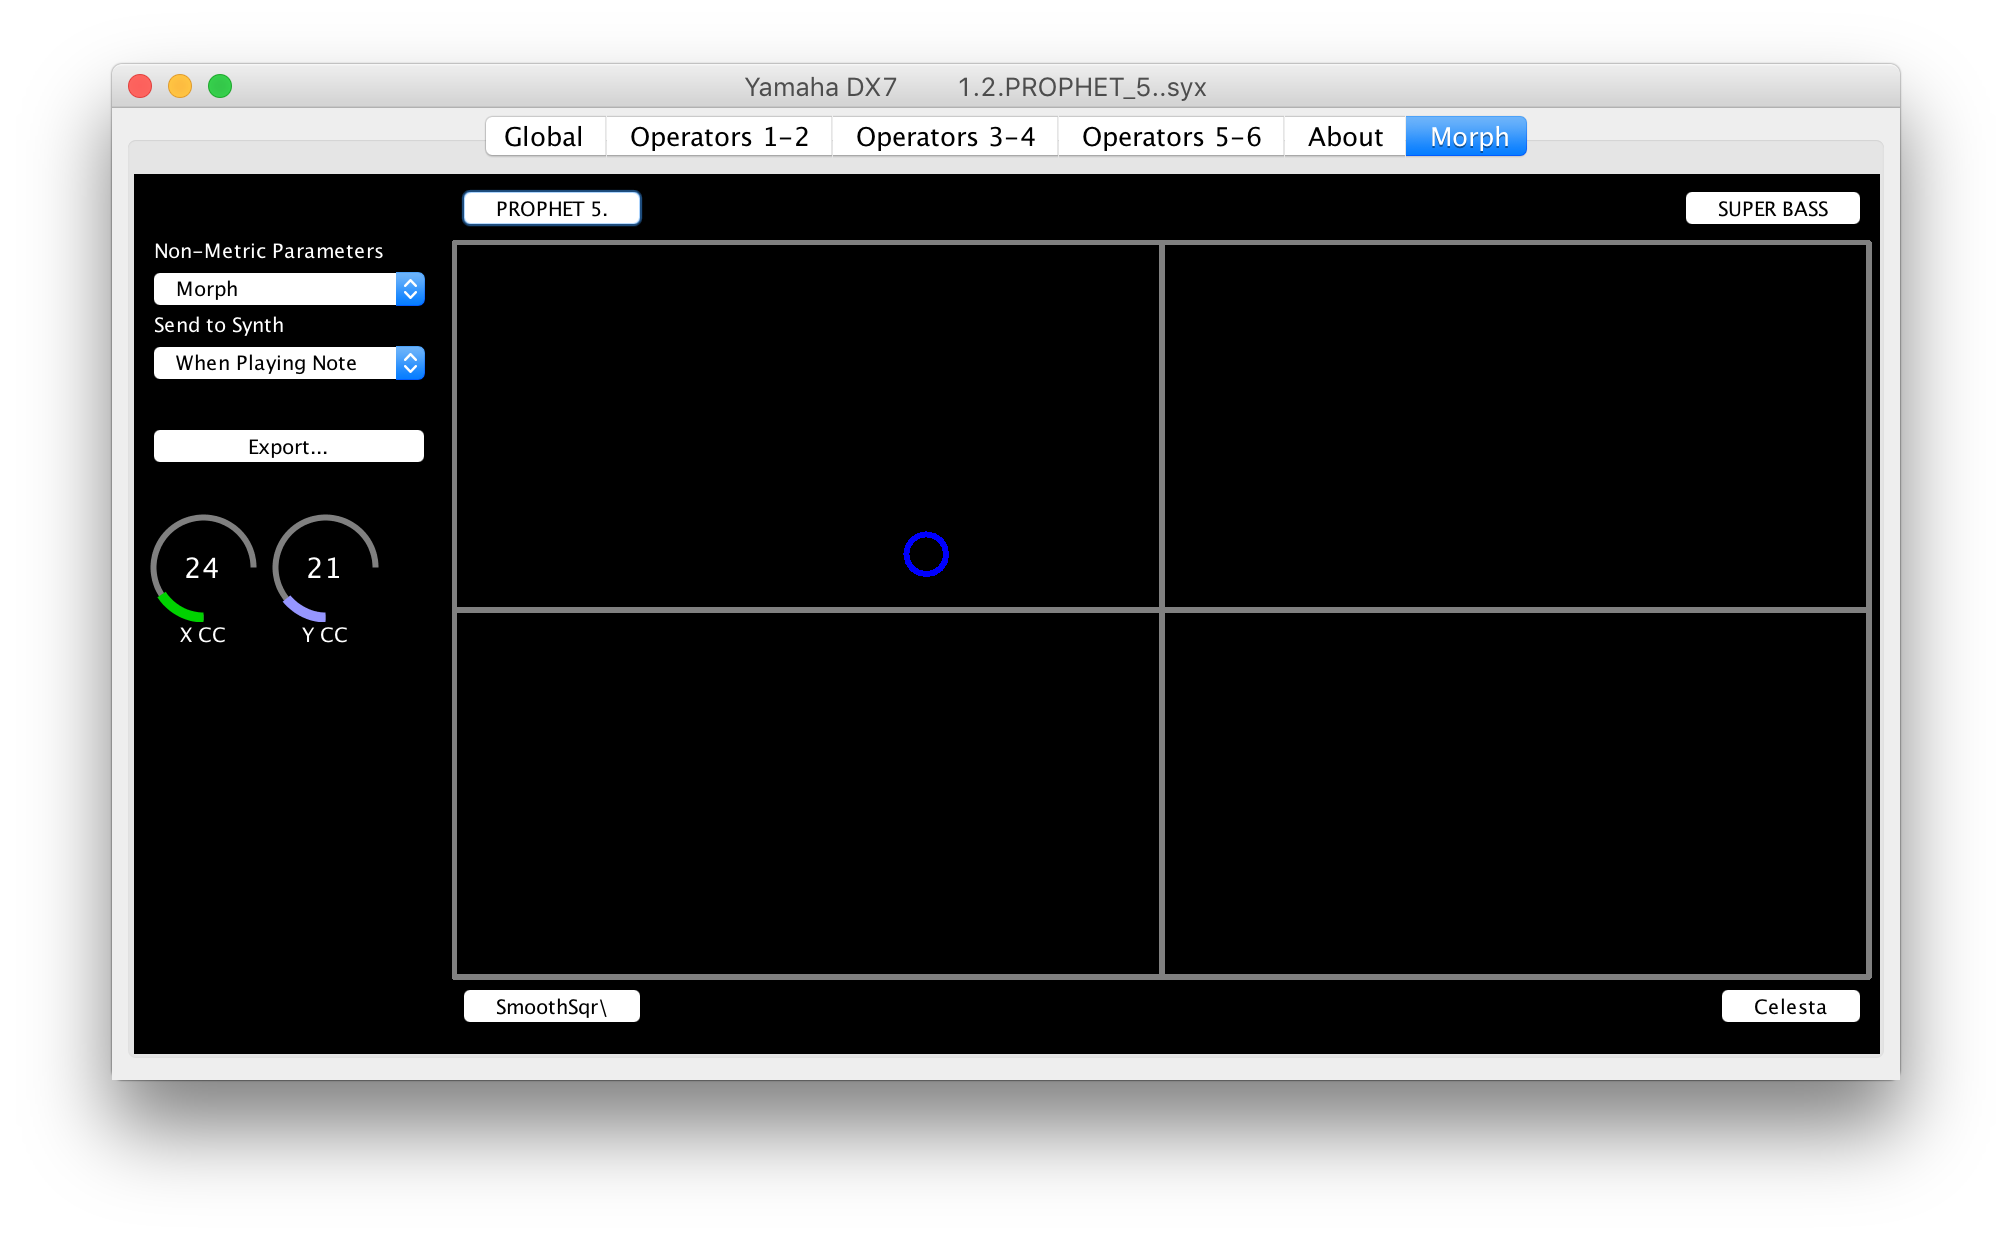
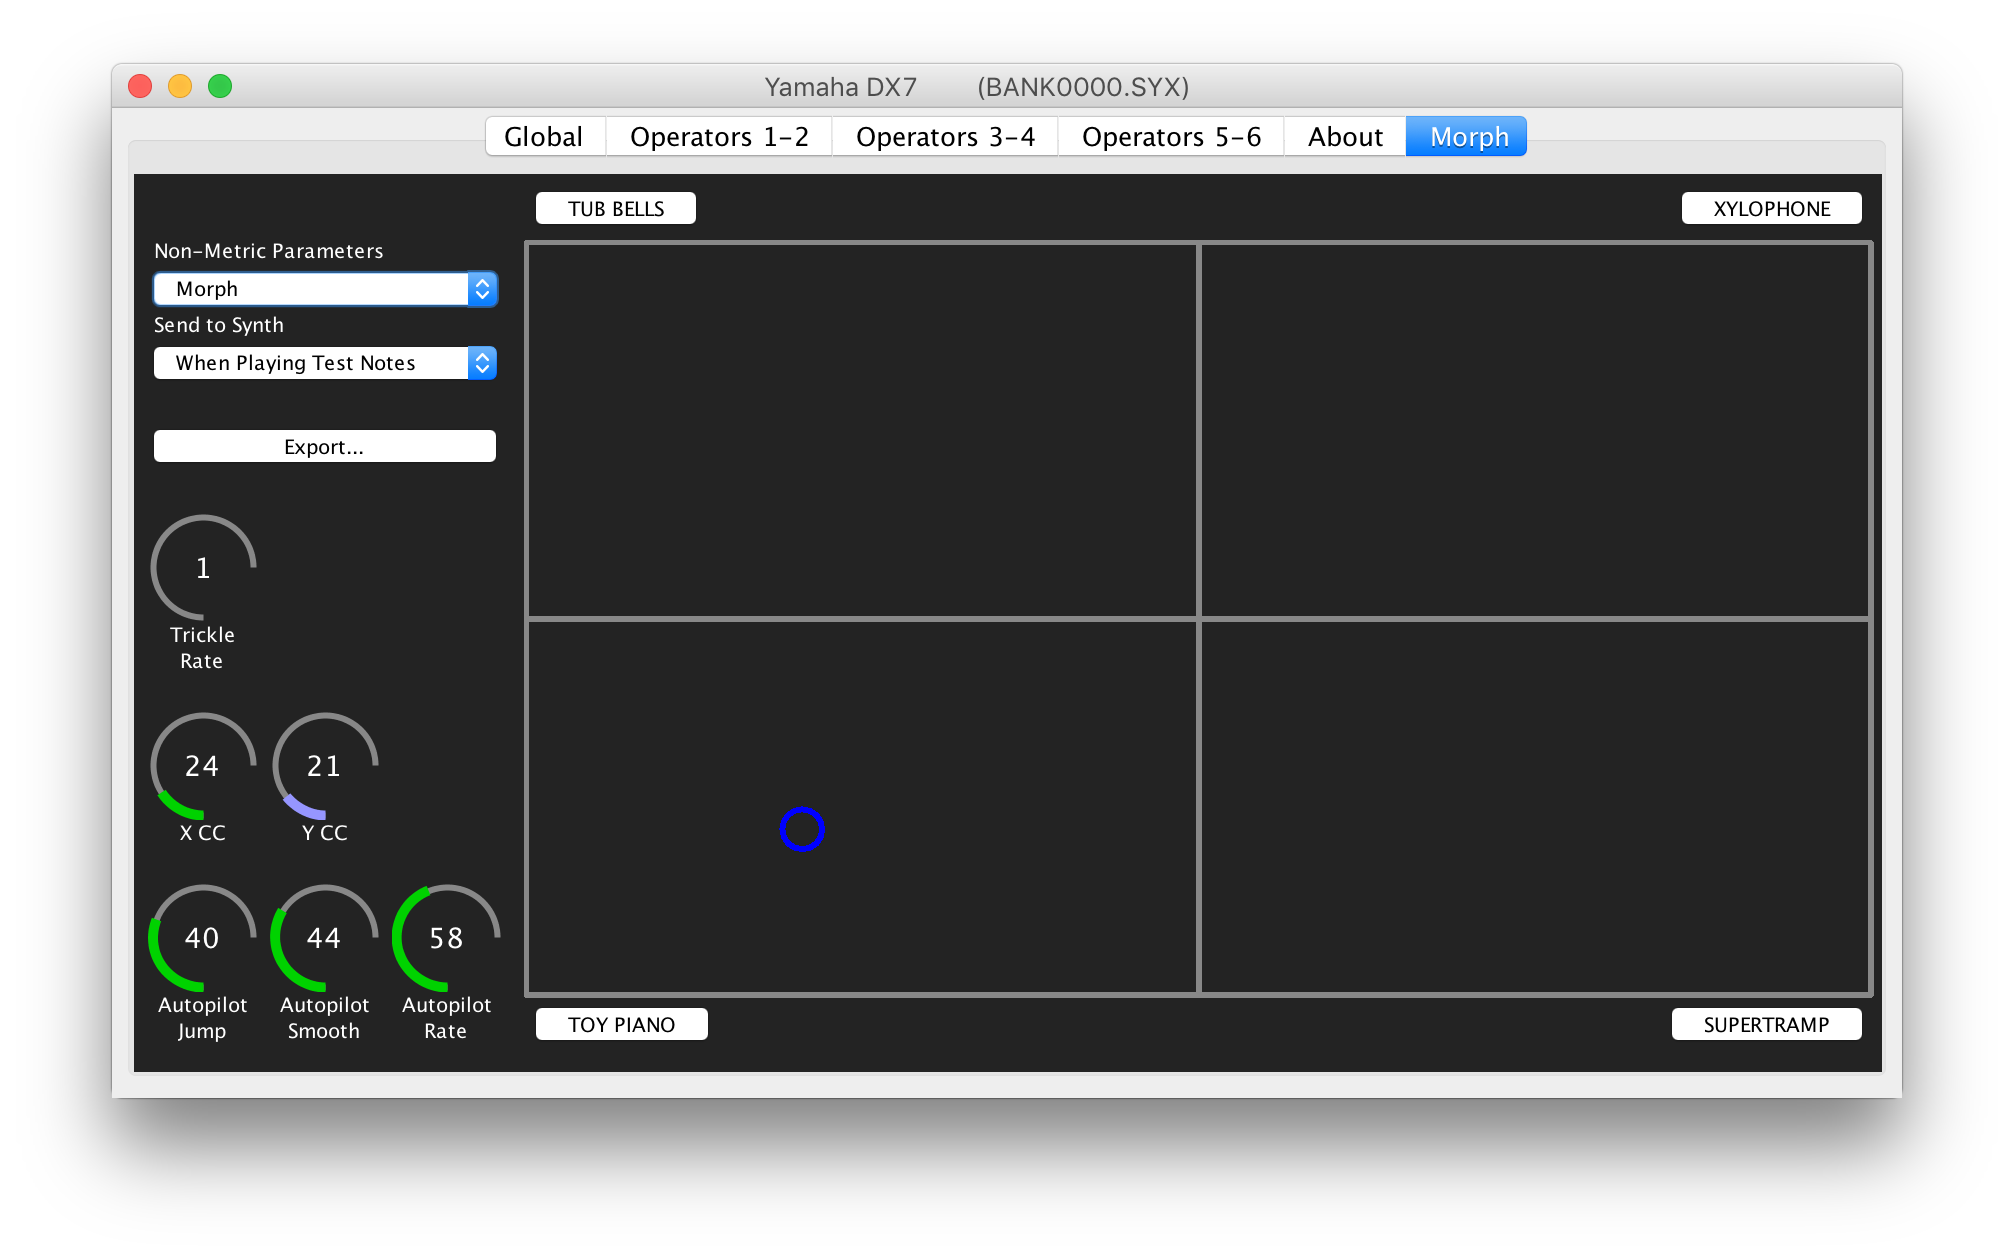
doc

diff --git a/docs/manual/Edisyn.tex b/docs/manual/Edisyn.tex
@@ -216,6 +216,9 @@ Now would be a good time to mention an Edisyn feature you may never notice other
 
 Persistence appears in other places too.  For example, the Initial Synthesizer dialog will default to the last synth you chose in that dialog.  Persistence shows up in many other places as well.
 
+\paragraph{Selecting Patch Editor Windows} When you bring a patch editor window to the front, Edisyn sends a bunch of All Sounds Off MIDI messages to clean things up for the editor.  However this may sometimes be undesirable: for example, if you are running a DAW and switch to Edisyn, it will turn off all your DAW's currently played notes.  To prevent this, just turn off {\bf Send All Sounds Off when Changing Windows}.
+
+
 \section{Loading and Saving Files}
 
 Edisyn is capable of reading both sysex files or MIDI files and extracting sysex patch data from them.  It can in some situations read files which contain many patches: but Edisyn only writes files with a single patch per file, and only in sysex file format.
@@ -258,7 +261,7 @@ Edisyn also has limited support for batch-downloading patches, one by one, and s
 If Edisyn can't download a particular patch (the synth isn't responding), it'll try again and again until successful.  So if it gets stuck, 
 you can always stop batch-downloading at any time by choosing {\bf Stop Downloading Batch} from the {\bf File} menu.  Note that you can still screw with knobs, etc. while Edisyn is busy downloading batches: but don't do that.  You're just messing up the batches getting saved.%\footnote{I may change this in the future to something less fragile.}
 
-Also note that as a failsafe Edisyn only allows the frontmost window to receive data over MIDI.  This means that while you're batch-downloading, you shouldn't switch to some other patch editor window: the downloading patch editor must stay in front.  You can go to another application though (read a web browser say).
+Also note that as a failsafe Edisyn only allows the frontmost window to receive data over MIDI.  Thus while you're batch-downloading, you shouldn't switch to some other patch editor window: the downloading patch editor must stay in front.  You can go to another application though (read a web browser say).
 
 \subsection{Exporting to Text}
 Perhaps you might wish to describe your patch on you blog or your favorite forum.  if you choose {\bf Export to Text...} from the {\bf File} menu, Edisyn will write out all of its patch parameters to a text file.   Edisyn may occasionally break out parameters more than your synthesizer does: though usually it's pretty close to a one-to-one mapping.  The parameter names can be cryptic sometimes: Edisyn often (not always) names parameters in a manner fairly similar to how they're specified by the synthesizer manufacturer in its MIDI Sysex document, and synth manufacturers are not known for being consistent in their naming between the sysex document and the user manual.
@@ -293,8 +296,6 @@ This might not increment in the way you expect.  Edisyn will increment its own d
 Some synthesizers cannot do one or another of these tasks.   When this happens, that feature will generally be disabled in the menu.  As always, read the About Tab to learn more about what's going on with that synthesizer model.  See Section \ref{inconsistent} for some information and griping about all this.
 
 A synthesizer can also offer its own sysex messages to Edisyn without Edisyn requesting them.  Edisyn will try to handle these appropriately.  Some synthesizers might send special {\it bank sysex} messages which contain an entire bank (or in some cases, an entire synthesizer's memory worth) of patches.  Only a few Edisyn patch editors know how to deal with these messages: notably the DX7 patch editor can handle these just fine.  In this case, you will be given three options, to upload the entire bank to the synthesizer (again), to save the entire bank to a file, or to select a single patch from the bank and edit it.
-
-\bump
 
 \subsection{Playing Test Notes}
 \label{playingtestnotes}
@@ -402,7 +403,6 @@ This procedure will create a bunch of of virtual devices with names like {\tt Vi
 \paragraph{Warning}  The ``loop'' in {\it loopback} is apropos.  If you fire up Edisyn and you're not careful, it may set up your loopback as both its input and output.  That would be unfortunate: Edisyn would send a patch out the loopback, which would then arrive at Edisyn's input, which would cause Edisyn to parse the same patch, which would in turn cause Edisyn to send the patch {\it again}, and so on.  So you want to make sure that Edisyn doesn't have the same loopback device as both input and output.  Obviously other devices (such as your MIDI/USB converter) can serve as both input and output.
 
 
-\vbox{
 \section{Editing and Exploratory Patch Creation}
 \label{editing}
 
@@ -413,7 +413,6 @@ Edisyn has a large number of facilities to help you program your synthesizer, in
 \paragraph{Undo and Redo}  Edisyn has infinite levels of undo and redo.  When you change a parameter or do a wholesale modification, this can be undone, as can patch dumps and merges from the synthesizer.  Individual parameter changes made manually on the synthesizer are not undoable even if they're reflected in Edisyn (it'd be too many).  Loading and saving patches is not undoable.  See the {\bf Edit} menu.
 
 \paragraph{Reset}  You can reset the patch editor to its ``init patch''.  Just choose {\bf Reset} in the {\bf Edit} menu.
-}
 
 \paragraph{Category Cut/Paste, Distribution, and Reset}  Each category has a pop-up menu you get when you right-click or shift-click (or two-finger click on a Mac trackpad) on the category name. You can:
 
@@ -469,11 +468,10 @@ You can restrict Mutation and Recombination (used in Randomize, Nudge, Merge, Bl
 
 You can change these of course: just click on them and you can remove them from being updated (or add them back).\footnote{Note that due to an error in Java's design, you can't click directly on a Combo Box (a pop-up menu) such as the ``Wave'' combo box in Figure \ref{mutationparameters}.  But you can click on its title (the text ``Wave'').}  You can also turn on (or turn off) all of the parameters in a category by double-clicking on the category title.  The categories in Figure \ref{mutationparameters} are {\it Yamaha TX81Z}, {\it Global}, {\it LFO}, and {\it Controllers}.  Finally, you can turn on all the parameters in the entire patch editor by selecting {\bf Set All Mutation Parameters} in the {\bf Edit} menu, or conversely turn them all of by selecting {\bf Clear All Mutation Parameters}.
 
-\bump
 
 \begin{wrapfigure}{r}{3in}
 \vspace{-1em}\includegraphics[scale=0.3]{5.png}
-\vspace{-3em}\caption{Editing Mutation Parameters}\label{mutationparameters}
+\vspace{-4em}\caption{Editing Mutation Parameters}\label{mutationparameters}
 \end{wrapfigure}
 
 Some parameters, such as the patch name or certain other parameters, can't be mutated no matter what: these have been declared {\it immutable} by the patch editor.  They will never have a red frame no matter how much you click them.
@@ -528,15 +526,16 @@ All the patches can be played by pressing their associated letter.  But addition
 \subsection{Constricting}
 \label{constrict}
 
+The {\it Constrictor} is similar to the Hill-Climber in many ways, yet its dynamics and behavior are quite different.   You choose the Constrictor in the same way as the Hill-Climber: by choosing {\bf Hill-Climb} in the {\bf Edit} menu.  But then in the Hill-Climb tab, change the ``Method'' combobox to {\it Constrictor}.    
+
 \begin{wrapfigure}{r}{3.6in}
-\vspace{-2.65em}\includegraphics[scale=0.27]{ConstrictorPanel.png}
+%\vspace{-2.65em}
+\vspace{-0.75em}\includegraphics[scale=0.27]{ConstrictorPanel.png}
 \vspace{-2.5em}
 \caption{The Hill-Climber Panel converted for Constricting.}
-\vspace{-1em}
+%\vspace{-1em}
 \label{constrictorpanel}
 \end{wrapfigure}
-
-The {\it Constrictor} is similar to the Hill-Climber in many ways, yet its dynamics and behavior are quite different.   You choose the Constrictor in the same way as the Hill-Climber: by choosing {\bf Hill-Climb} in the {\bf Edit} menu.  But then in the Hill-Climb tab, change the ``Method'' combobox to {\it Constrictor}.    
 
 The Constrictor auditions patches to you in exactly the same way was the Hill-Climber.  But you're not given the option of choosing your top three choices.  Instead, you're asked to choose which patches you {\it don't like}.  This is done by deselecting their checkboxes.  Afterwards, you click on the {\bf Constrict} button and those patches will be replaced with recombined and mutated versions of the remaining patches.  The newly recombined replacements will be moved to the front of the Candidates so you hear them first.
 
@@ -783,19 +782,20 @@ The other reason is because you have recently moved from \(S\) to \(P\), and now
 }
 
 
+\enlargethispage{1em}
 \subsection{Morphing}
 \label{morph}
+
+\begin{wrapfigure}{r}{3.6in}
+\vspace{-2em}\includegraphics[scale=0.27]{Morph.png}
+\vspace{-4em}
+\caption{The Morpher.}
+\label{morphpanel}
+\end{wrapfigure}
 
 The {\it Morpher} allows you to try out patches, in real time, that are a combination of four different patches. Shown in Figure~\ref{morphpanel}, the Morpher largely consists of a big rectangle with a different patch at each corner.  Once you have set up these patches, you can drag a joystick cursor (the blue circle) within this rectangle, and it will change the synthesizer's patch to reflect a combination of the four patches.  The closer the cursor is to a patch the more it will resemble it.
 
 Patches are updated on your synthesizer in real time as you change the joystick cursor position.  To do this, Edisyn sends the entire patch to the synthesizer on the fly in the same way that ``Send to Current Patch'' is done.  Keep in mind that some synthesizers can take a bit of time to update themselves to a new patch, so depending on the synthesizer this can be either smooth or a bit jumpy.
-
-\begin{wrapfigure}{r}{3.6in}
-\vspace{-2em}\includegraphics[scale=0.27]{Morph.png}
-\vspace{-3em}
-\caption{The Morpher.}
-\label{morphpanel}
-\end{wrapfigure}
 
 \paragraph{Initialization} When you fire up the Morpher, it will place a copy of the current patch in the top-left corner.  You can load patches in additional corners (or overwrite the top-left corner) by clicking on their buttons and choosing  {\it Load from File ...}, which loads a patch from a file.  You can also load a patch from any of the Hill-Climbing archive slots (q through v). And you can take a patch from any of the Nudge slots (1 through~4).  
 
@@ -812,13 +812,15 @@ Non-metric parameters, such as (say) choice of filter or the PCM sampled sound p
 \begin{itemize}
 \item {\it When Playing Test Notes}\quad This is the default, and usually the best option.  Here, the Morpher will send the entire patch immediately before it plays a test note.  (If you have turned off sending test notes, the Morpher will never send the patch).  
 \item {\it When Changing}\quad The Morpher will send the entire patch every time the joystick cursor changes.  This can be slow if the synthesizer takes a long time to update itself, but it is often the best choice if you are playing notes yourself.  Your synthesizer is unlikely to change its sound to reflect this change until the next note is played.
-\item {\it Trickle}\quad The Morpher will constantly send a single random parameter\footnote{Edisyn shuffles the parameters, then sends them in turn, then shuffles again, and so on.} to the synth.  If your synth updates itself in real-time in response to changes to these parameters, this will {\it slowly} update the patch sound of a long-playing note.  However many synths only update themselves when the next note is sounded, in which case it makes more sense to choose {\it When Playing Note}.  Note that sending individual parameters like this may take a while to fully update the patch on the synth.  Also note that this floods MIDI with messages.
-\item {\it Deluge}\quad The Morpher will constantly send the entire patch to the synth.  If your synth updates itself in real-time in response to changes to these parameters, this will {\it rapidly} update the patch sound of a long-playing note.  However many synths only update themselves when the next note is sounded, in which case it makes more sense to choose {\it When Playing Note}.  Note that this floods MIDI with messages, causing much more congestion than {\it Trickle} (there's a reason it's called {\it Deluge}).
+\item {\it Trickle}\quad The Morpher will constantly send a single random parameter\footnote{Edisyn shuffles the parameters, then sends them in turn, then shuffles again, and so on.} to the synth.  If your synth updates itself in real-time in response to changes to these parameters, this will {\it slowly} update the patch sound of a long-playing note.  However many synths only update themselves when the next note is sounded, in which case it makes more sense to choose {\it When Playing Note}.  Note that sending individual parameters like this may take a while to fully update the patch on the synth.  Also note that this floods MIDI with messages.  You can set the {\it Trickle Rate}, which changes the number of parameters sent to the synth each trickle timestep.  By default this is 1.
+%\item {\it Deluge}\quad The Morpher will constantly send the entire patch to the synth.  If your synth updates itself in real-time in response to changes to these parameters, this will {\it rapidly} update the patch sound of a long-playing note.  However many synths only update themselves when the next note is sounded, in which case it makes more sense to choose {\it When Playing Note}.  Note that this floods MIDI with messages, causing much more congestion than {\it Trickle} (there's a reason it's called {\it Deluge}).
 \end{itemize}
 
 \paragraph{Editing} During the morphing process you might wish to modify a corner.  In addition to reloading it from various sources as discussed earlier during {\it Initialization}, you have some more options available when clicking on its button.  For example, you can swap corners with one another, which is useful for rearranging corners as you like.  You can also {\it Set to Joystick Position}, which sets the corner to the the current auditioned patch at the Joystick position, and {\it Clear}, which clears a corner of its patch (setting it to ``[Empty]'').
 
 \paragraph{Moving the Joystick via CC}  You can set the Joystick's X and Y values via CC MIDI commands.  Simply set the X CC and Y CC dials to the CC parameter numbers to control the X and Y directions respectively.  Edisyn will remember these parameter settings in the future.
+
+\paragraph{Autopilot}  The morpher can be set to move the cursor randomly on its own to wander about in the space.   There are three parameters which affect this.  First, when the morpher is about to move the cursor, the {\it Autopilot Jump} specifies how far the cursor will be moved.  Second, the {\it Autopilot Smooth} specifies how much the movement will be totally random (jittery) rather than a mixture of moving forward and moving randomly.  Third, the {\it Autopilot Rate} specifies how often the cursor is moved (higher is faster).  Note that if your synthesizer requires significant pauses after sending a  parameter or sending a whole patch, this will significantly slow down the autopilot.  For example, if you are trickling, and the trickle rate is set to 20, then 20 trickles will be sent for each autopilot update, and if a single trickle is slow, the autopilot update rate will be very slow. 
 
 \paragraph{Exporting a Patch} When you are satisfied with the current sound at your Joystick cursor, you can save it by pressing the {\it Export...} button.  Your three options are to {\it Keep Patch}, which loads the cursor patch into the current editor, {\it Edit Patch}, which loads it into a new patch editor, and {\it Save to File}, which, well, saves it to a file.
 

diff --git a/README.md b/README.md
@@ -119,7 +119,7 @@ You can also run Edisyn from its jar file from the command line: see "Running fr
 
 #### Rosetta and the M1
 
-At present Edisyn only runs under Rosetta on the M1, because CoreMidi4J is compiled for Intel I believe.  Hopefully we'll get that dealt with soon.
+At present Edisyn only runs under Rosetta on the M1, because its package contains an Intel-only Java VM (because I ownly own an Intel Mac and am not running Big Sur).  Don't expect things to change until I get an M1.  If you have installed Java yourself, you can run Edisyn from the command line (see later below) and it'll probably run natively.
 
 #### If Edisyn bombs in MacOS on selecting a patch editor...
 
